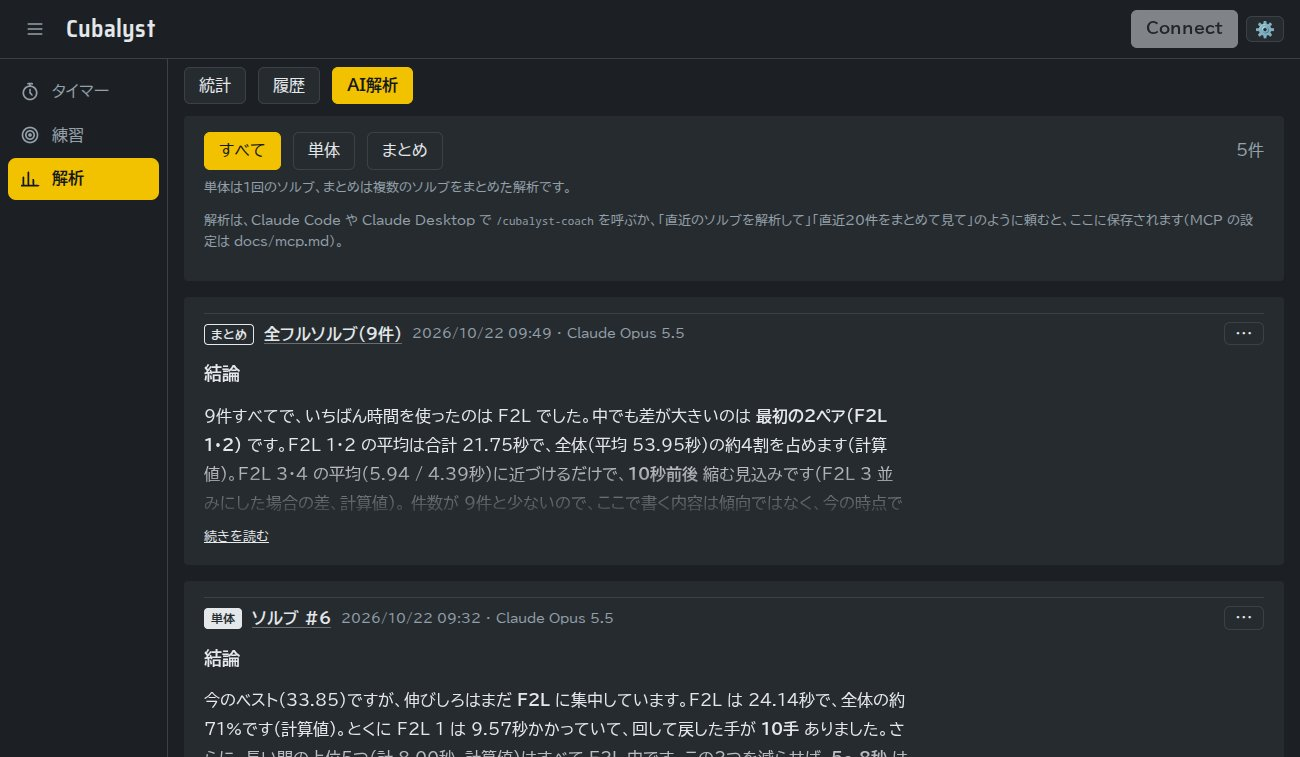
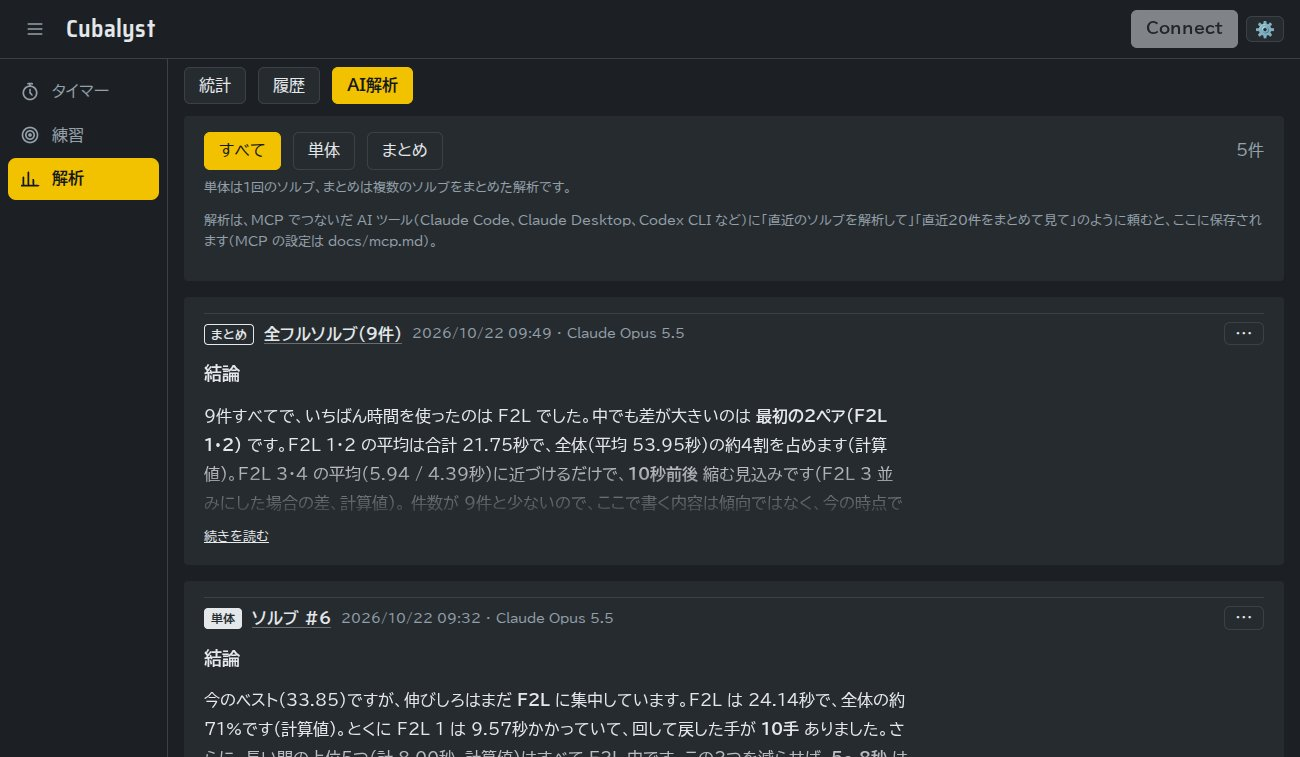
MCP の説明とアプリ内の文言を、Claude に限らず MCP 対応の AI 全般に通じる書き方にする
- docs/mcp.md：どの AI ツールでも共通の登録のしかたと、Codex CLI の設定例（未確認）を足す
- アプリ内の案内・見出し・設定の説明から「Claude」を外す
- 解析結果のモデル名が空のときの名前を「Claude（MCP）」から「AI（MCP）」にする
- README の AI解析の画像を、新しい案内文で撮り直す

Changed region(s): [[0.1538, 0.2734, 0.9846, 0.3342]]

diff --git a/web/src/pages/SettingsPage.tsx b/web/src/pages/SettingsPage.tsx
@@ -105,7 +105,7 @@ export function SettingsPage() {
         <h3>持ち方（解法の表記）</h3>
         <p className="muted small">
           スマートキューブはキューブ自身の向き（白上・緑前）で回転を記録します。解くときの持ち方を設定すると、
-          解法・再生・リコン・Claudeによる解析の記号をその向きに合わせて表示します（記録そのものは変わりません。スクランブルは白上・緑前のままです）。
+          解法・再生・リコン・AI解析の記号をその向きに合わせて表示します（記録そのものは変わりません。スクランブルは白上・緑前のままです）。
         </p>
         <div className="row">
           <label>

diff --git a/web/src/components/AnalysisCard.tsx b/web/src/components/AnalysisCard.tsx
@@ -103,7 +103,7 @@ export function AnalysisCard({
 export function AnalysisHowTo() {
   return (
     <p className="muted small">
-      解析は、Claude Code や Claude Desktop で <code>/cubalyst-coach</code> を呼ぶか、「直近のソルブを解析して」「直近20件をまとめて見て」のように頼むと、ここに保存されます（MCP
+      解析は、MCP でつないだ AI ツール（Claude Code、Claude Desktop、Codex CLI など）に「直近のソルブを解析して」「直近20件をまとめて見て」のように頼むと、ここに保存されます（MCP
       の設定は docs/mcp.md）。
     </p>
   )

diff --git a/web/src/api.ts b/web/src/api.ts
@@ -170,7 +170,7 @@ export function setCaseLearned(id: string, learned: boolean): Promise<void> {
 
 export type AnalysisKind = 'solve' | 'multi'
 
-/** 解析結果。単体（solve）は1回のソルブ、まとめ（multi）は複数のソルブを対象にする。解析は MCP 経由の Claude が書く。 */
+/** 解析結果。単体（solve）は1回のソルブ、まとめ（multi）は複数のソルブを対象にする。解析は MCP でつないだ AI が書く。 */
 export type Analysis = {
   id: number
   kind: AnalysisKind

diff --git a/web/src/pages/StatsPage.tsx b/web/src/pages/StatsPage.tsx
@@ -267,7 +267,7 @@ function RecentMultiAnalyses() {
   return (
     <section className="panel">
       <div className="row">
-        <h3>まとめ解析（Claude）</h3>
+        <h3>まとめ解析（AI）</h3>
         <span className="spacer" />
         <Link to="/analyses?kind=multi">すべて見る</Link>
       </div>

diff --git a/internal/mcpserver/mcpserver.go b/internal/mcpserver/mcpserver.go
@@ -1,7 +1,7 @@
 // Package mcpserver は Cubalyst のデータを MCP のツールとして公開する（`cubalyst mcp`）。
 //
-// DB には直接触らず、動いている Cubalyst の HTTP API を呼ぶ。Claude Code や Claude Desktop から
-// ソルブを読み、Claude 自身が書いた解析結果をアプリに保存できる（API キーは要らない）。
+// DB には直接触らず、動いている Cubalyst の HTTP API を呼ぶ。MCP に対応した AI ツール（Claude Code など）から
+// ソルブを読み、AI 自身が書いた解析結果をアプリに保存できる（API キーは要らない）。
 package mcpserver
 
 import (
@@ -23,7 +23,7 @@ import (
 	"cubalyst/internal/solves"
 )
 
-// Instructions は接続した Claude に渡す前提。
+// Instructions は接続した AI に渡す前提。
 const Instructions = `Cubalyst は、スマートキューブで記録したルービックキューブ（3x3、CFOP法）のソルブを集計するアプリです。
 このサーバーのツールで、ソルブの記録を読み、解析結果をアプリに保存できます。
 

diff --git a/internal/server/analysis.go b/internal/server/analysis.go
@@ -11,7 +11,7 @@ import (
 	"cubalyst/internal/solves"
 )
 
-// 解析は MCP 経由の Claude が行う。サーバーは入力データを渡し、書かれた結果を保存する。
+// 解析は MCP でつないだ AI が行う。サーバーは入力データを渡し、書かれた結果を保存する。
 
 type analysisInput struct {
 	Input    string  `json:"input"`
@@ -65,7 +65,7 @@ func parseSelection(q url.Values) (analysis.Selection, error) {
 	return sel, nil
 }
 
-// handleSaveAnalysis は Claude が書いた解析結果を保存する。
+// handleSaveAnalysis は AI が書いた解析結果を保存する。
 func (s *Server) handleSaveAnalysis(w http.ResponseWriter, r *http.Request) {
 	var in analysis.SaveRequest
 	if err := decodeJSON(r, &in); err != nil {

diff --git a/internal/analysis/service.go b/internal/analysis/service.go
@@ -55,9 +55,9 @@ const (
 )
 
 // ExternalModel は、解析結果のモデル名が空のときに使う名前。
-const ExternalModel = "Claude（MCP）"
+const ExternalModel = "AI（MCP）"
 
-// Service は解析の入力データ作りと、解析結果の保存を行う。解析そのものはアプリの外（MCP 経由の Claude）で行う。
+// Service は解析の入力データ作りと、解析結果の保存を行う。解析そのものはアプリの外（MCP でつないだ AI）で行う。
 type Service struct {
 	db       *sql.DB
 	solves   *solves.Store

diff --git a/internal/mcpserver/mcpserver_test.go b/internal/mcpserver/mcpserver_test.go
@@ -134,7 +134,7 @@ func TestTools(t *testing.T) {
 	}
 
 	out, _ = call(t, cs, "list_analyses", map[string]any{"solve_id": 1})
-	if !strings.Contains(out, "単体：ソルブ #1") || !strings.Contains(out, "Claude（MCP）") || strings.Contains(out, "まとめ") {
+	if !strings.Contains(out, "単体：ソルブ #1") || !strings.Contains(out, "AI（MCP）") || strings.Contains(out, "まとめ") {
 		t.Fatalf("list_analyses solve: %s", out)
 	}
 	out, _ = call(t, cs, "list_analyses", map[string]any{"kind": "multi"})
